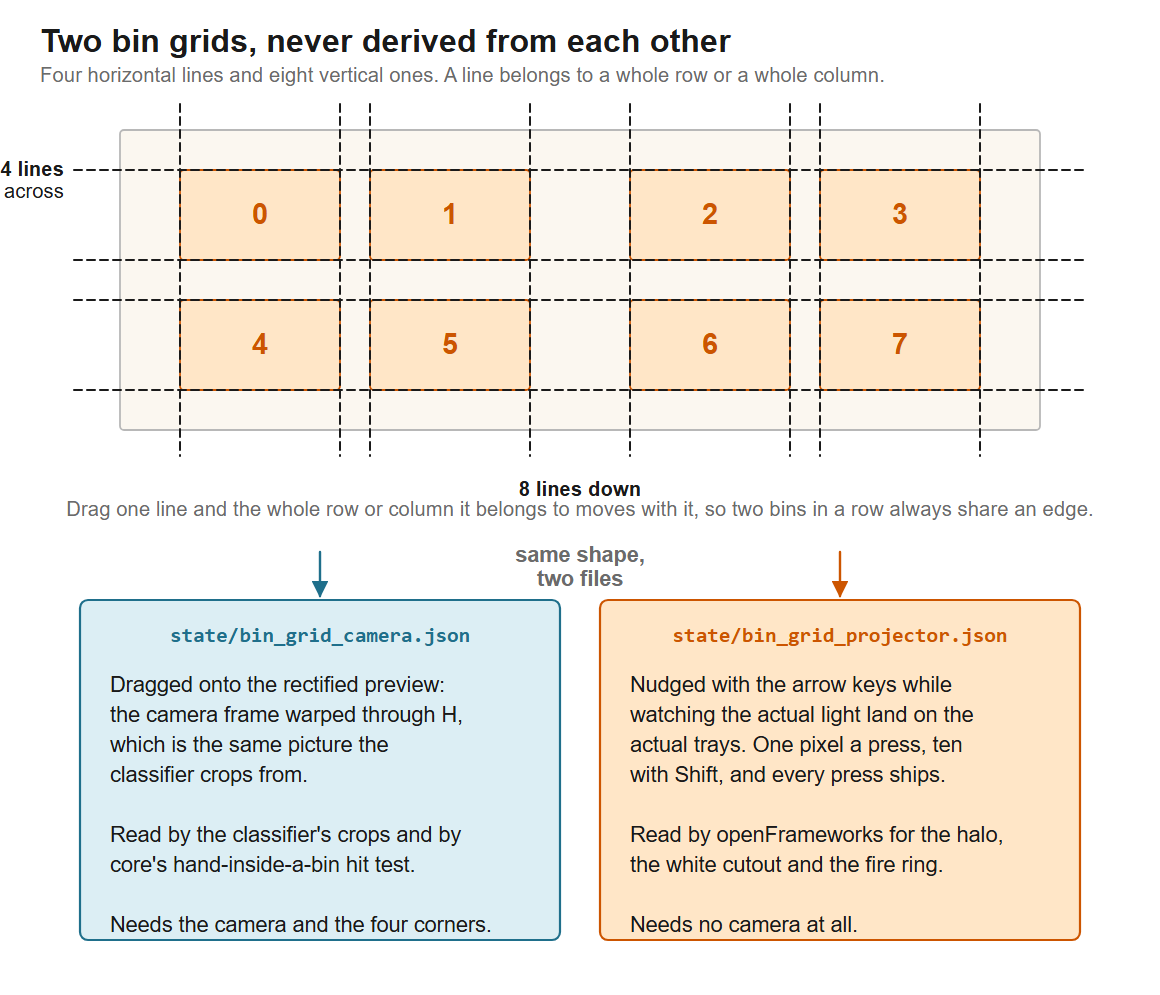
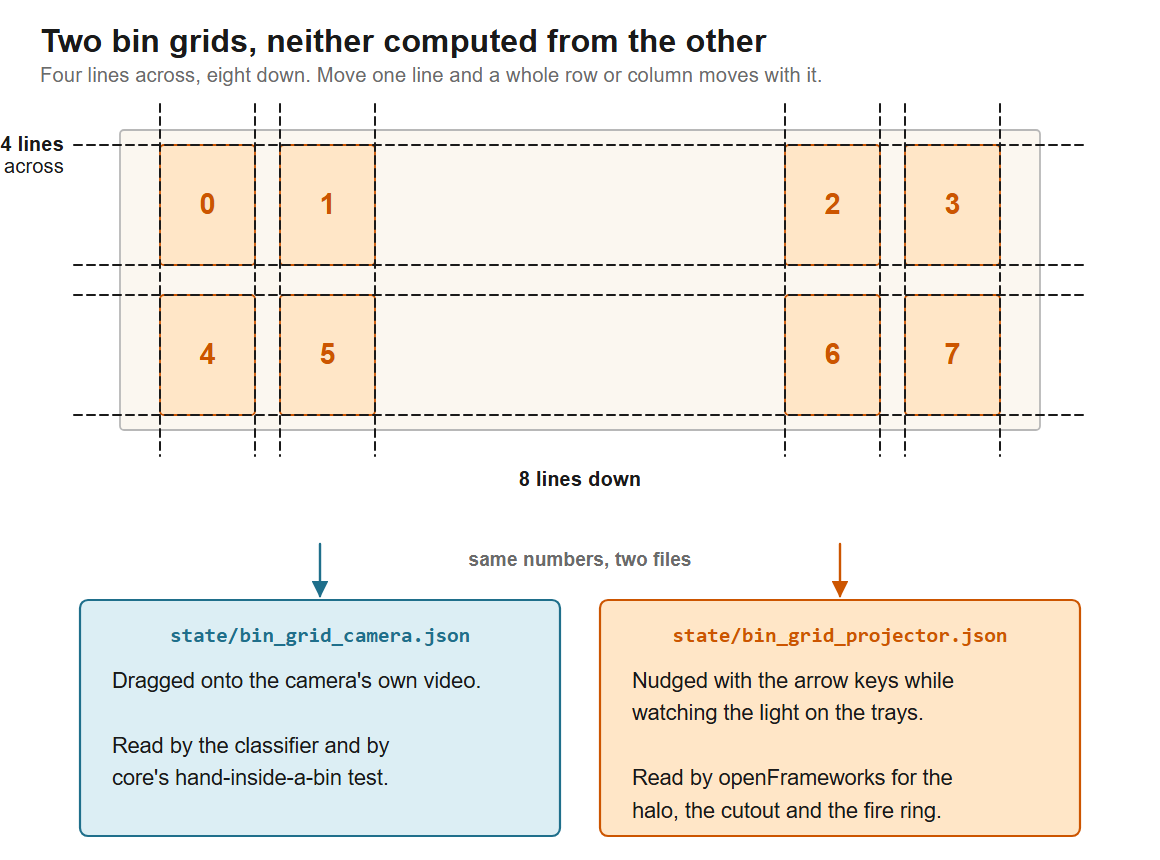
Simplify the coordinate-spaces section and fix the bin aspect
The coordinate-spaces "diagram" was four stacked paragraphs. Redraw
it as an actual diagram: three frames, two labelled arrows, table
and camera both converting into stage pixels. In two-grids, draw
the bins taller than wide the way the real ones are (200 mm across,
255 mm deep) instead of the other way round, drop the caption that
just repeated the subtitle, and cut the two store notes to two
lines each. Plain-language rewrite of both paragraphs in HACKSTER.

diff --git a/tools/render_diagrams.py b/tools/render_diagrams.py
@@ -421,67 +421,52 @@ def ring():
 
 # ---------------------------------------------------------- 4. coordinate spaces
 def spaces():
-    W, H = 1100, 1010
-    s = Svg(W, H, "Four coordinate spaces",
-            "Stage pixels are canonical. Everything on the wire is already in them.")
+    W, H = 1040, 600
+    s = Svg(W, H, "Everything converts to stage pixels",
+            "Two source frames, one canonical. Nothing on the wire is in anything else.")
 
-    X, CW = 90, 920
+    bx, bw = 360, 320
+    cx = bx + bw / 2
 
-    s.box(X, 120, CW, 150,
-          ["1.  the table, in millimetres",
-           "1524.0 wide by 914.4 deep, which is 60 by 36 inches.",
-           "Origin at the far-left corner, +y running toward the diner.",
-           "TableGeometry.h holds the layout and a static_assert per chain."],
-          head_size=24, body_size=18, body_fill=INK)
+    s.box(bx, 108, bw, 88,
+          ["table", "1524 x 914.4 mm"],
+          head_size=25, body_size=19, body_fill=INK)
 
-    s.line(X + CW / 2, 270, X + CW / 2, 336, arrow="a", sw=2.6)
-    s.label_on_line(X + CW / 2, 312, "two scales, one per axis", 17)
+    s.line(cx, 196, cx, 272, arrow="a", sw=2.6)
+    s.text(cx + 24, 226, "one scale per axis", 16, INK, weight="bold")
+    s.text(cx + 24, 250, "table and projector are different shapes", 14, MUTED)
 
-    s.box(X, 338, CW, 172,
-          ["2.  the stage, in pixels",
-           "1920 by 1080.   1.25984 px per mm across,   1.18110 px per mm deep.",
-           "Two scales rather than one, because the table's aspect is 1.667 and",
-           "the projector's is 1.778. A single uniform scale puts the near row",
-           "50 mm out, which on plywood is a visible finger's width."],
-          head_size=24, body_size=18, body_fill=INK, fill=ACCENT_FILL,
+    s.box(bx, 274, bw, 112,
+          ["stage",
+           "1920 x 1080 projector pixels",
+           "the only format on the wire"],
+          head_size=27, body_size=17, body_fill=INK, fill=ACCENT_FILL,
           stroke=ACCENT, head_fill=ACCENT)
 
-    s.line(X + CW / 2, 510, X + CW / 2, 576, arrow="a", sw=2.6)
+    s.line(cx, 474, cx, 388, arrow="a", sw=2.6)
+    s.text(cx + 24, 424, "homography H", 16, INK, weight="bold")
+    s.text(cx + 24, 448, "set by dragging four corners onto the feed", 14, MUTED)
 
-    s.box(X, 578, CW, 178,
-          ["3.  the camera, in pixels",
-           "1920 by 1080, mounted upside down. A 3 x 3 homography H maps it onto",
-           "the stage, solved from four corners a human drags onto the live feed.",
-           "The corner roles are pinned to the drag order, never inferred from where",
-           "a handle lands: on a camera at 180 degrees, inferring pairs every corner",
-           "with its opposite, and four points always fit exactly, so the wrong",
-           "answer comes back with zero error and no warning."],
-          head_size=24, body_size=18, body_fill=INK)
-
-    s.line(X + CW / 2, 756, X + CW / 2, 822, arrow="a", sw=2.6)
-
-    s.box(X, 824, CW, 150,
-          ["4.  the fluid, in two more",
-           "The fire's density field is 1280 by 720 and its simulation grid is 640 by 360.",
-           "Half scale, and this is the resolution pair the whole last section is about:",
-           "two shaders read across it without saying so."],
-          head_size=24, body_size=18, body_fill=INK)
+    s.box(bx, 476, bw, 88,
+          ["camera", "1920 x 1080 px, mounted inverted"],
+          head_size=25, body_size=17, body_fill=INK)
 
     s.save("architecture-coordinate-spaces.svg")
 
 
 # ------------------------------------------------------------------ 5. two grids
 def grids():
-    W, H = 1160, 995
-    s = Svg(W, H, "Two bin grids, never derived from each other",
-            "Four horizontal lines and eight vertical ones. A line belongs to a whole row or a whole column.")
+    W, H = 1160, 860
+    s = Svg(W, H, "Two bin grids, neither computed from the other",
+            "Four lines across, eight down. Move one line and a whole row or column moves with it.")
 
-    # the grid mechanic, drawn once at the top
+    # the line mechanic, drawn once at the top. Bins are drawn taller than
+    # wide, the way the real ones are: 200 mm across, 255 mm deep.
     gx, gy, gw, gh = 120, 130, 920, 300
     s.rect(gx, gy, gw, gh, fill=PANEL, stroke=RULE, sw=1.8, rx=4)
-    hs = [gy + 40, gy + 130, gy + 170, gy + 260]
-    vs = [gx + 60, gx + 220, gx + 250, gx + 410,
-          gx + 510, gx + 670, gx + 700, gx + 860]
+    hs = [gy + 15, gy + 135, gy + 165, gy + 285]
+    vs = [gx + 40, gx + 135, gx + 160, gx + 255,
+          gx + 665, gx + 760, gx + 785, gx + 880]
     for i in range(8):
         col, row = i % 4, i // 4
         x0, x1 = vs[2 * col], vs[2 * col + 1]
@@ -496,51 +481,38 @@ def grids():
         s.line(x, gy - 26, x, gy + gh + 26, stroke=INK, sw=2.0, dash="8 5")
     s.text(gx - 56, hs[0] + 6, "4 lines", 17, INK, anchor="end", weight="bold")
     s.text(gx - 56, hs[0] + 28, "across", 17, INK, anchor="end")
-    s.text(gx + gw / 2, gy + gh + 66, "8 lines down", 17, INK, anchor="middle",
+    s.text(gx + gw / 2, gy + gh + 56, "8 lines down", 17, INK, anchor="middle",
            weight="bold")
-    s.text(gx + gw / 2, gy + gh + 86,
-           "Drag one line and the whole row or column it belongs to moves with it, "
-           "so two bins in a row always share an edge.",
-           17, MUTED, anchor="middle")
 
     # two stores
     top = 600
-    s.box(80, top, 480, 340,
-          ["state/bin_grid_camera.json", "", "", "", "", "", "", ""],
+    s.box(80, top, 480, 236,
+          ["state/bin_grid_camera.json", "", "", "", ""],
           fill=COOL_FILL, stroke=COOL, head_fill=COOL, head_size=21,
           head_font=MONO, top=top + 42)
-    s.caption(110, top + 92, [
-        "Dragged onto the rectified preview:",
-        "the camera frame warped through H,",
-        "which is the same picture the",
-        "classifier crops from.",
+    s.caption(112, top + 88, [
+        "Dragged onto the camera's own video.",
         "",
-        "Read by the classifier's crops and by",
-        "core's hand-inside-a-bin hit test.",
-        "",
-        "Needs the camera and the four corners.",
-    ], 18, INK, gap=25)
+        "Read by the classifier and by",
+        "core's hand-inside-a-bin test.",
+    ], 18, INK, gap=27)
 
-    s.box(600, top, 480, 340,
-          ["state/bin_grid_projector.json", "", "", "", "", "", "", ""],
+    s.box(600, top, 480, 236,
+          ["state/bin_grid_projector.json", "", "", "", ""],
           fill=ACCENT_FILL, stroke=ACCENT, head_fill=ACCENT, head_size=21,
           head_font=MONO, top=top + 42)
-    s.caption(630, top + 92, [
+    s.caption(632, top + 88, [
         "Nudged with the arrow keys while",
-        "watching the actual light land on the",
-        "actual trays. One pixel a press, ten",
-        "with Shift, and every press ships.",
+        "watching the light on the trays.",
         "",
-        "Read by openFrameworks for the halo,",
-        "the white cutout and the fire ring.",
-        "",
-        "Needs no camera at all.",
-    ], 18, INK, gap=25)
+        "Read by openFrameworks for the",
+        "halo, the cutout and the fire ring.",
+    ], 18, INK, gap=27)
 
-    s.line(320, 552, 320, top - 4, stroke=COOL, sw=2.4, arrow="ac")
-    s.line(840, 552, 840, top - 4, stroke=ACCENT, sw=2.4, arrow="ao")
-    s.text(580, 562, "same shape,", 18, MUTED, anchor="middle", weight="bold")
-    s.text(580, 586, "two files", 18, MUTED, anchor="middle", weight="bold")
+    s.line(320, top - 56, 320, top - 4, stroke=COOL, sw=2.4, arrow="ac")
+    s.line(840, top - 56, 840, top - 4, stroke=ACCENT, sw=2.4, arrow="ao")
+    s.text(580, top - 34, "same numbers, two files", 16, MUTED,
+           anchor="middle", weight="bold")
 
     s.save("architecture-two-grids.svg")
 

diff --git a/docs/HACKSTER.md b/docs/HACKSTER.md
@@ -451,16 +451,18 @@ Camera frames are six megabytes each, thirty times a second, so they go in share
 # Everything agrees about where things are
 
 [IMAGE: docs/img/architecture-coordinate-spaces.svg]
-*Millimetres, projector pixels, camera pixels, and the fluid's own pair.*
+*The table and the camera both convert into projector pixels. That is the only frame on the wire.*
 
-The table is 1524 by 914.4 mm and the projector is 1920 by 1080 px. Those two shapes are not the same shape, so the conversion uses a different scale for each axis. One uniform scale puts the near row of bins fifty millimetres out, and it looks like you built the table wrong rather than like you divided wrong.
+There is one coordinate system on the wire: projector pixels, 1920 by 1080. None of the processes work in anything else, so none of them can disagree about where a bin is.
 
-The camera is tied to all that by a homography solved from four corners a human drags onto the live feed. Four points always fit a homography perfectly, so it reports zero error every single time, including the time it was pointing nowhere near the actual table. That number is measuring nothing. The only check that can fail here is a person looking at the light on the real table.
+Two conversions feed it. The table is measured in millimetres and is a different shape from the projector, so each axis gets its own scale; get that wrong and the near row of bins sits 50 mm off. The camera is lined up with the projector by a homography, which a person sets by dragging four corners onto the live video.
+
+That last step has no automatic check. A homography fits any four corners exactly, so it always reports zero error, even when the corners are placed wrong. The only test that works is looking at whether the light lands on the real trays.
 
 [IMAGE: docs/img/architecture-two-grids.svg]
-*The same eight bins, described twice, by two people looking at two different things.*
+*The eight bins, drawn twice: once on the camera's picture, once on the projected light.*
 
-Which is why the bin boundaries exist twice. One grid is dragged onto the camera's own picture. The other is nudged with the arrow keys while watching light land on actual trays. They start from the same numbers and neither is ever computed from the other, because a rectangle carried from one device's view into the other's looks right and can quietly be wrong.
+For the same reason, the bin boundaries are stored twice. The camera grid is dragged onto the camera's video. The projector grid is nudged with the arrow keys while watching the light on the trays. Both start from the same measurements, and neither is ever computed from the other, because a rectangle that looks right in one view can be wrong in the other.
 
 # Eight states, and one of them is dangerous
 
